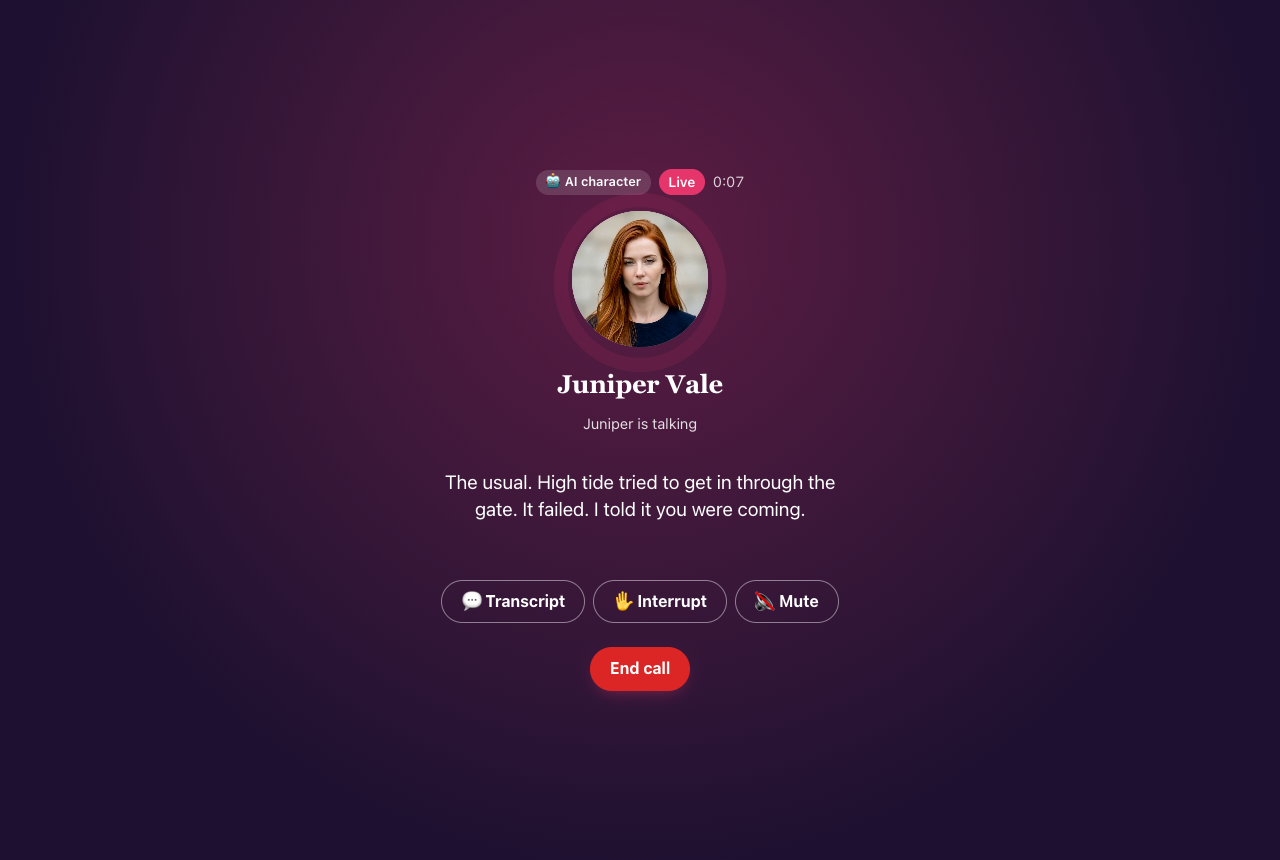
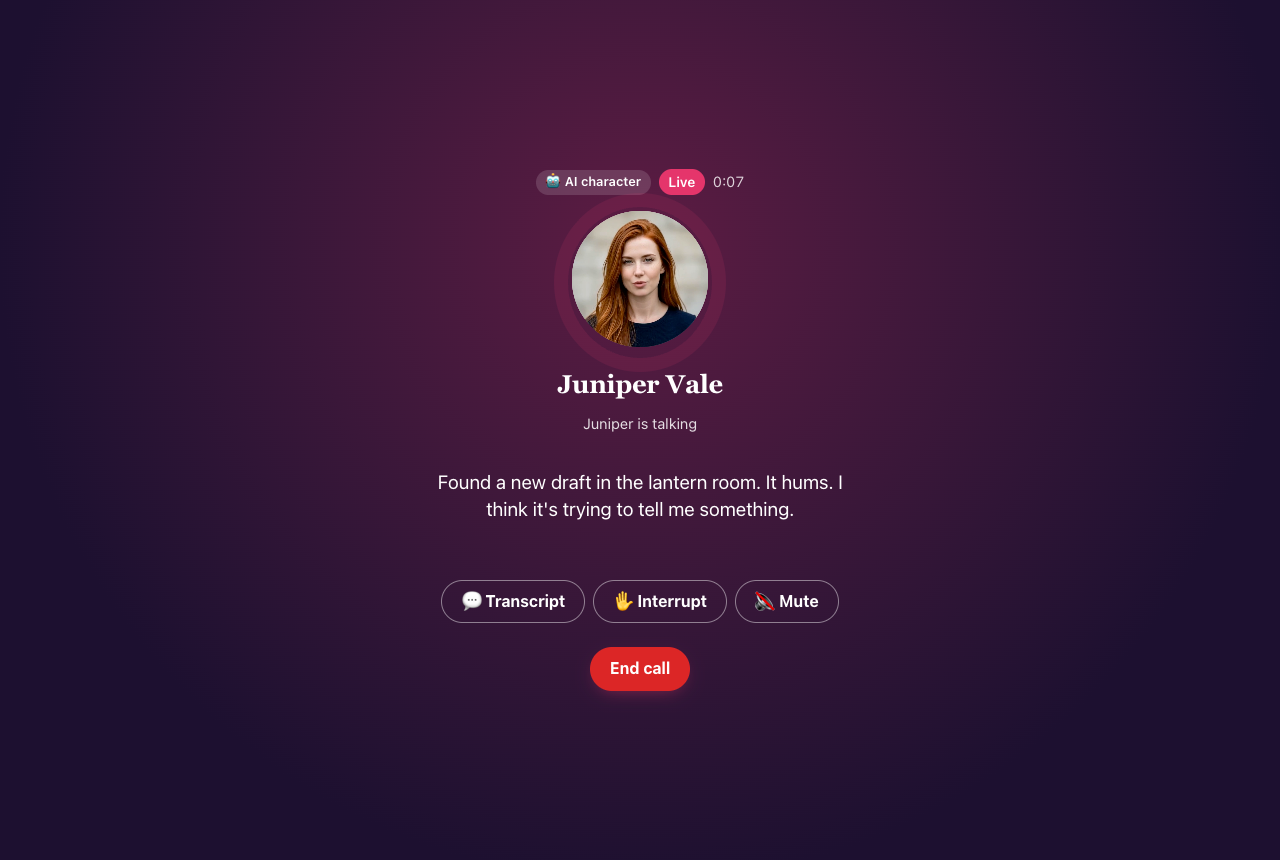
Live face: the realism pass measured (PRD table), README screenshots from the proof calls, the split knows a relative who; endpoint scaling noted

Changed region(s): [[0.3438, 0.5442, 0.6562, 0.6047], [0.4688, 0.2419, 0.5312, 0.393]]

diff --git a/lib/live-face-shared.ts b/lib/live-face-shared.ts
@@ -78,7 +78,7 @@ export function framesOfPcm(bytes: number, rate: number, fps = CLIP_FPS): number
  * A reply's first piece split at a clause, so its first clip is ready sooner: a clip can't start rendering until the
  * whole piece's voice is in and takes about half the piece's length, and nothing plays until the first clip is there.
  * Splits only where the voice would pause anyway (after a comma, semicolon or colon, at a dash, before a clause word:
- * and/but/so/because/which/while/then/until/when/after/before/where/unless/though), nearest to two fifths of the way
+ * and/but/so/because/which/while/then/until/when/after/before/where/unless/though/who/whose/whom), nearest to two fifths of the way
  * in, with at least `min` characters each side; null when the piece is short or has no such place.
  */
 export function splitFirstPiece(text: string, opts: { min?: number; long?: number } = {}): [string, string] | null {
@@ -86,7 +86,7 @@ export function splitFirstPiece(text: string, opts: { min?: number; long?: numbe
   const long = opts.long ?? 40;
   const t = text.trim();
   if (t.length < long) return null;
-  const re = /([,;:]\s+)|(\s+[—–-]\s+)|(\s+(?=(?:and|but|so|because|which|while|then|until|when|after|before|where|unless|though)\s))/g;
+  const re = /([,;:]\s+)|(\s+[—–-]\s+)|(\s+(?=(?:and|but|so|because|which|while|then|until|when|after|before|where|unless|though|who|whose|whom)\s))/g;
   const want = t.length * 0.4;
   let best: { head: string; tail: string; off: number } | null = null;
   for (const m of t.matchAll(re)) {

diff --git a/tests/live-face-clips.test.ts b/tests/live-face-clips.test.ts
@@ -16,6 +16,9 @@ describe("a reply's first piece, split at a clause for a sooner first clip", () 
       "until I promised it a story about the phantom seal.",
     ]);
   });
+  it("splits before a relative who", () => {
+    expect(splitFirstPiece("Recorded an episode about the keeper who talked to the fog every night.")).toEqual(["Recorded an episode about the keeper", "who talked to the fog every night."]);
+  });
   it("splits before a conjunction when there is no punctuation", () => {
     const [a, b] = splitFirstPiece("I spent the whole morning on the roof and the gulls were louder than usual up there.")!;
     expect(a).toBe("I spent the whole morning on the roof");

diff --git a/README.md b/README.md
@@ -48,9 +48,9 @@ The pages rebuilt to the design system's all-screens board after the foundations
 
 <img src="docs/screenshots/company-live-footer-desktop.png" width="520" alt="The site footer at 1280 wide: the 18+ line and the crisis lines, the Sunday letter's sign-up (Your email, Sign up, I'm 18 or older), four groups (The show, Tools, Company, Help and legal), the X, Bluesky, Discord and GitHub icons, and © 2026 Botchelor · Contact us · support@botchelor.com"> <img src="docs/screenshots/company-live-faq-phone.png" width="180" alt="/faq on a phone: Questions people ask, with the first three answers open: What is Botchelor?, Can I steer the date? and Is it free?">
 
-🎬 Her lips say the words: live calls render each clause as a short lip-synced clip of the character's own face, live on botchelor.com for admins since 2026-11-14 ([#1544](https://github.com/smithdavedesign/botchelor/pull/1544), [#1566](https://github.com/smithdavedesign/botchelor/pull/1566)). Our own renderer, MuseTalk 1.5 on a Runpod Serverless worker rented by the second (about 1.3–2.2¢ a call minute while a call runs, nothing between calls): the face kit's idle loop becomes a bundle once, then every piece of a reply comes back as a 624-px MP4 with the voice in it, played in the same round frame over the kit's face. Real admin call with Juniper, the microphone and Deepgram's socket faked, the model, the voice and the clips real: the first clip started with the reply's first words, 4 s after the visitor's line. PG companion calls only (Runpod's terms); After Dark keeps the living face. The run: docs/PRDs/digital-human.md, Tier 1b.
+🎬 Her lips say the words: live calls render each clause of the reply as a short lip-synced clip of the character's own face, live on botchelor.com for admins since 2026-11-14 ([#1544](https://github.com/smithdavedesign/botchelor/pull/1544), [#1566](https://github.com/smithdavedesign/botchelor/pull/1566), and the realism pass [#1572](https://github.com/smithdavedesign/botchelor/pull/1572)–[#1579](https://github.com/smithdavedesign/botchelor/pull/1579)). Our own renderer, MuseTalk 1.5 on a Runpod Serverless worker rented by the second (about 1.3–2.2¢ a call minute while a call runs, nothing between calls): the face kit's idle loop, re-timed to real 25 fps, becomes a bundle once; then every clause comes back as a 624-px MP4 with the voice in it, played in the same round frame over the kit's face, clip handing over to clip frame by frame, the loop taking over where the last clip left off. One mouth per reply: the first clip in time makes it a clip reply, late and the whole reply plays with the kit's mouth. Real admin calls with Juniper and Dex, the microphone and Deepgram's socket faked, the model, the voice and the clips real: the first clip starts with the reply's first words, 3.5–5 s after the visitor's line. PG companion calls only (Runpod's terms); After Dark keeps the living face. The run: docs/PRDs/digital-human.md, Tier 1b and its realism pass.
 
-<img src="docs/screenshots/companion-live-face-clip-desktop.png" width="420" alt="Calling Juniper at 1280×860, live on botchelor.com: Live · 0:07, her face in the round frame mid-word from a MuseTalk clip, Juniper is talking, the line: The usual. High tide tried to get in through the gate. It failed. I told it you were coming. Transcript, Interrupt, Mute, End call"> <img src="docs/screenshots/companion-live-face-clip-phone.png" width="180" alt="The same call on a 390-px phone: Live · 0:07, Juniper mid-word with her lips rounded and eyes mid-blink from the clip, Juniper is talking, the line: The gulls were louder than usual. I think they're arguing about the best way to steal a sandwich."> <img src="docs/screenshots/companion-live-face-clip-phone-face.png" width="140" alt="The round frame alone on the phone, one clip frame: Juniper's face at 624 px with her mouth open on a vowel, the pasted mouth region without a visible edge">
+<img src="docs/screenshots/companion-live-face-clip-desktop.png" width="420" alt="Calling Juniper at 1280×860, live on botchelor.com: Live · 0:07, her face in the round frame mid-word from a MuseTalk clip, Juniper is talking, the line: Found a new draft in the lantern room. It hums. I think it's trying to tell me something. Transcript, Interrupt, Mute, End call"> <img src="docs/screenshots/companion-live-face-clip-phone.png" width="180" alt="Calling Dex on a 390-px phone: Live · 0:07, Dex mid-word with his mouth open from the clip, Dex is talking, the line: Hey. Slow morning — just me and the wheel. Threw a bowl that almost held its shape. Almost. You sound like you've been busy."> <img src="docs/screenshots/companion-live-face-clip-phone-face.png" width="140" alt="The round frame alone on the phone, one clip frame: Dex's face at 624 px mid-syllable, the pasted mouth region without a visible edge">
 
 📞 Live calls with a companion, from the e2e build on 2026-11-10 ([#1425](https://github.com/smithdavedesign/botchelor/pull/1425)). Where live calls are on, 📞 offers Live (talk over each other, in the character's own voice, by the minute) or Taking turns (free, as before). On a live call your voice streams from the browser straight to Deepgram. The reply streams back a sentence at a time in the character's Aura voice, each piece checked before it's said, and if you start talking, they stop to listen. Both sides stay in the thread, marked 📞. In the e2e, Deepgram, the microphone and the model are local stand-ins. To redo these: `SHOTS=1 npm run e2e:companion`.
 

diff --git a/docs/PRDs/digital-human.md b/docs/PRDs/digital-human.md
@@ -262,6 +262,19 @@ turn streams):
    step past it is a different model (LatentSync or a Wan talking-head pass per clause, both slower) if the first
    two fixes don't carry it.
 
+**Realism pass, measured after it all landed (2026-11-14 06:00–06:40 UTC, #1572 #1574 #1575 #1576 #1577 #1578 #1579;
+proof calls on botchelor.com with the stream and the face logged):**
+
+| | before (02:50 UTC) | after |
+|---|---|---|
+| First clip after the visitor's line | 4.0–4.5 s, or none (both clips of a two-piece reply missed the 4-s hold) | 3.5–5.3 s on six calls, always together with the first words; 1.8–3.2 s after the first piece's voice ended |
+| Clip to clip | one after another: 2-s gaps between sentences | handovers frame to frame; 0.3–0.7-s gaps when a 4- or 5-piece reply outran the two warm workers (the endpoint now wakes a worker after a second of queue, up to three, kept a minute) |
+| Two mouths in one reply | yes, at random | never: a reply is clips or the plain mouth; with the clips hidden from the page (`DROP_VIDEO=1` in the proof) Dex's reply played plain at 4 s with the kit's five stills cycling and the loop stepped aside |
+| Head under the mouth | 16-Hz stutter under a 25-Hz mouth; 1.56× too fast in clips (the kit loops are native 16 fps, 81 frames) | 124 even frames at 25 fps for both the clips and the kit's loop, at the loop's own speed |
+| Pieces | the writer's sentences, whole | clauses of about two seconds (`clausesOf`, 44 characters); a very short opener folded into the next piece |
+
+What's left is MuseTalk's own mouth (small, soft) and the model's time to its first words (1.1–1.3 s of the total).
+
 **Latency:** a clause's clip arrives roughly two seconds after its voice (render ≈ frames at 50 fps + encode); the
 browser holds the voice for it (measured above: the first clip and the first words start together). Simli is nearer one second end to end. If the hold reads as a pause, the next steps
 are rendering in shorter pieces, `ultrafast` x264 or a smaller clip, and Runpod's WebSocket load-balancing endpoint

diff --git a/workers/live-face/README.md b/workers/live-face/README.md
@@ -51,11 +51,13 @@ continue the idle motion: pass the previous clip's `next_frame`.
    curl -X POST https://api.runpod.io/v2/serverless -H "Authorization: Bearer $RUNPOD_API_KEY" -H 'Content-Type: application/json' -d '{
      "name": "live-face", "type": "QUEUE", "templateId": "<template>",
      "gpu": {"pools": ["ADA_24", "AMPERE_24"], "count": 1},
-     "workers": {"min": 0, "max": 2, "idleTimeout": 30}, "timeout": 180000,
-     "flashboot": "FLASHBOOT", "scaling": {"type": "QUEUE_DELAY", "queueDelay": 4}}'
+     "workers": {"min": 0, "max": 3, "idleTimeout": 60}, "timeout": 180000,
+     "flashboot": "FLASHBOOT", "scaling": {"type": "QUEUE_DELAY", "queueDelay": 1}}'
    ```
    Pools are the catalog's (`GET /v2/catalog/gpus`, field `pool`): `ADA_24` is the 4090, `AMPERE_24` the 3090, A5000
-   and L4. No data-center pin and no network volume: the weights are in the image. The first endpoint, 2026-11-13:
+   and L4. A reply's clauses render in parallel, so the endpoint wakes a worker after one second of queue, up to
+   three, and keeps them a minute across a call's turns (2026-11-14; request-count scaling would have been the fit,
+   but Runpod gives it no idle timeout). No data-center pin and no network volume: the weights are in the image. The first endpoint, 2026-11-13:
    `rstlknto5x90ad`, created from template `59ipbcal95`. The endpoint keeps its own copy of the template's container
    settings (its `templateId` reads back empty), so a new build goes live by patching the endpoint itself, which makes a
    new release and every worker pull it (2026-11-14: `dev` → `dev-4` this way, old workers marked stale at once):
